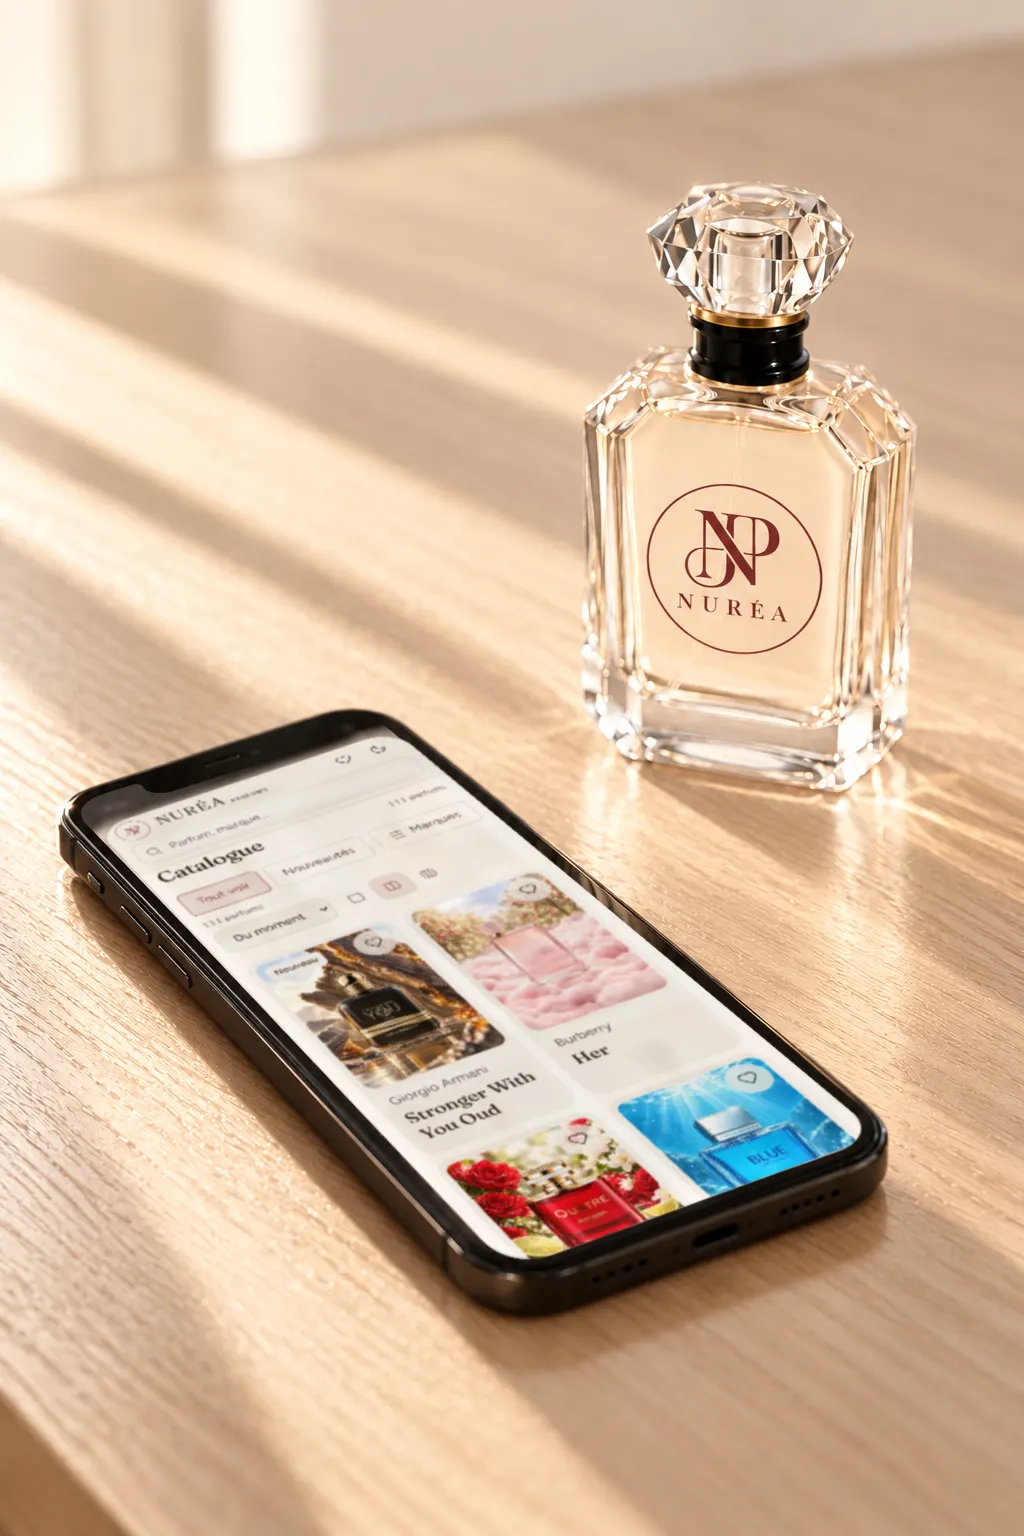
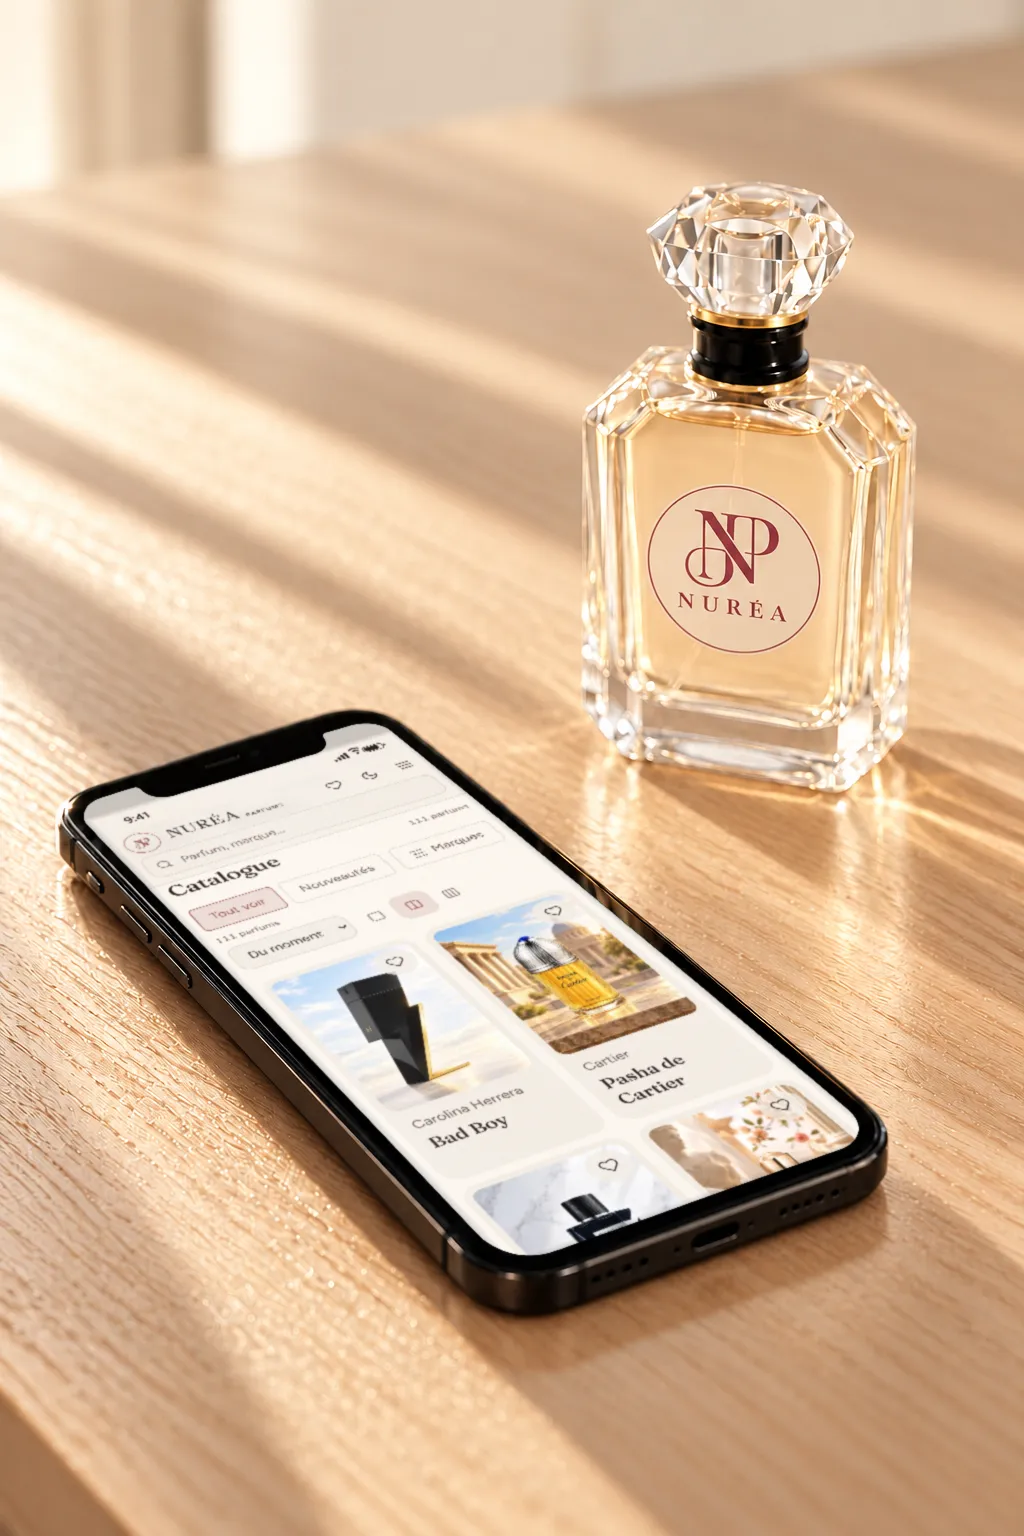
vitrine(T16): téléphones refaits à l'écran vert, vraie appli Snapchat
Le gérant a jugé l'incrustation « pas pro » (écran collé à plat, pâle,
bords approximatifs). Refait selon la méthode d'un studio :

- scènes régénérées à l'identique avec l'écran en vert chroma : le
  détourage donne la forme exacte (coins arrondis, encoche par-dessus) ;
- coins par droites ajustées sur les bords, haut repéré par l'encoche ;
- écran émissif, reflet de vitre dans le sens de la fenêtre, grain du
  cliché, flou de profondeur léger, ombre sous le cadre, liseré vert
  retiré ;
- catalogue : capture à jour (bouton Menu) sous une barre d'état iOS ;
- Snapchat : la capture de l'appli fournie par le gérant, stories nettes
  (sa décision, malgré les prix qu'elles montrent).

diff --git a/src/components/editorial/EditorialPhoto.tsx b/src/components/editorial/EditorialPhoto.tsx
@@ -7,8 +7,8 @@ import { cn } from "@/lib/utils";
  * Les photos éditoriales de la vitrine (`public/branding/editorial/`), chacune en deux lumières, même
  * cadrage au pixel près : la bascule de thème ne change que la lumière. Images générées pour Nuréa
  * (21/10/2026, aucun être vivant, le flacon Nuréa copié sur la photo réelle) ; les écrans des
- * téléphones sont des captures réelles du catalogue et du profil Snapchat, incrustées — les stories,
- * qui portent des prix, y sont floutées. Sources et méthode : `docs/refonte-vitrine/annexes/photos-editoriales.md`.
+ * téléphones (écran vert à la génération) portent des captures réelles incrustées : le catalogue, et
+ * le profil Snapchat tel que l'appli l'affiche, stories nettes (choix du gérant, 21/10, malgré leurs prix). Sources et méthode : `docs/refonte-vitrine/annexes/photos-editoriales.md`.
  */
 export type EditorialPhotoName = "atelier" | "choisir" | "ecrire" | "recevoir";
 

diff --git a/scripts/refonte-vitrine/incruste-ecran.py b/scripts/refonte-vitrine/incruste-ecran.py
@@ -1,43 +1,91 @@
-# Incruste une capture d'écran réelle dans l'écran d'un téléphone d'une photo (perspective, coins arrondis).
-# Usage : python incruste-ecran.py '{"photo":…,"ecran":…,"coins":[[x,y]×4 HG,HD,BD,BG],"sortie":…,"flou_stories":[y0,y1]}'
-# Méthode et réglages utilisés : docs/refonte-vitrine/annexes/photos-editoriales.md (main).
-import sys, json, cv2, numpy as np
-def charge_ecran(path, flou_stories=False, halo=0.0):
-    s = cv2.imread(path)
-    h, w = s.shape[:2]
-    if flou_stories:  # Snapchat : stories (prix, flacons de marques) illisibles
-        y0, y1 = int(h*flou_stories[0]), int(h*flou_stories[1])
-        s[y0:y1] = cv2.GaussianBlur(s[y0:y1], (0, 0), 40)
-    m = np.zeros((h, w), np.uint8)
-    r = int(w*0.11)
-    cv2.rectangle(m, (r, 0), (w-r, h), 255, -1); cv2.rectangle(m, (0, r), (w, h-r), 255, -1)
-    for cx, cy in [(r, r), (w-r, r), (r, h-r), (w-r, h-r)]: cv2.circle(m, (cx, cy), r, 255, -1, cv2.LINE_AA)
-    return s, m
-def incruste(photo, ecran, coins, sortie, flou=1.2, lum=0.92, reflet=0.14, flou_stories=False, halo=0.0):
-    p = cv2.imread(photo); H, W = p.shape[:2]
-    s, m = charge_ecran(ecran, flou_stories)
-    h, w = s.shape[:2]
-    src = np.float32([[0, 0], [w, 0], [w, h], [0, h]])
-    M = cv2.getPerspectiveTransform(src, np.float32(coins))
-    ws = cv2.warpPerspective(s, M, (W, H), flags=cv2.INTER_AREA)
-    wm = cv2.warpPerspective(m, M, (W, H), flags=cv2.INTER_LINEAR).astype(np.float32)/255
-    wm = cv2.GaussianBlur(cv2.erode(wm, np.ones((3, 3))), (0, 0), 0.8)
-    if flou: ws = cv2.GaussianBlur(ws, (0, 0), flou)
-    ws = ws.astype(np.float32)*lum
-    # reflets de la photo d'origine : sa partie claire au-dessus de la moyenne locale
-    pf = p.astype(np.float32)
-    hl = np.clip(pf - cv2.GaussianBlur(pf, (0, 0), 25), 0, 255)
-    comp = ws + hl*halo
-    comp = comp*(1-reflet) + pf*reflet
-    out = pf*(1-wm[..., None]) + comp*wm[..., None]
-    cv2.imwrite(sortie, np.clip(out, 0, 255).astype(np.uint8))
-    # contrôle : contour dessiné
-    c = np.clip(out, 0, 255).astype(np.uint8).copy()
-    cv2.polylines(c, [np.int32(coins)], True, (0, 255, 0), 1)
-    return c
-if __name__ == "__main__":
-    a = json.loads(sys.argv[1])
-    c = incruste(**a)
-    x0 = int(min(q[0] for q in a["coins"]))-40; y0 = int(min(q[1] for q in a["coins"]))-40
-    x1 = int(max(q[0] for q in a["coins"]))+40; y1 = int(max(q[1] for q in a["coins"]))+40
-    cv2.imwrite(a["sortie"].replace(".png", "-controle.png"), c[max(0,y0):y1, max(0,x0):x1])
+# Incruste une capture réelle dans l'écran VERT (chroma #00FF00) d'une photo : masque doux, coins par droites ajustées,
+# haut repéré par l'encoche, lumière, reflet de vitre, grain, ombre sous le cadre. Méthode : docs/refonte-vitrine/annexes/photos-editoriales.md (main).
+# Incrustation d'une capture réelle dans un écran vert (chroma) d'une photo.
+# python incruste2.py photo_verte.png ecran.png sortie.png [lumiere sombre|clair] [flou_y0 flou_y1]
+import sys, cv2, numpy as np
+photo, ecran, sortie = sys.argv[1:4]
+lumiere = sys.argv[4] if len(sys.argv) > 4 else "sombre"
+flou = (float(sys.argv[5]), float(sys.argv[6])) if len(sys.argv) > 6 else None
+P = cv2.imread(photo).astype(np.float32); H, W = P.shape[:2]
+B, G, R = cv2.split(P)
+g = G - np.maximum(R, B)                      # « verdeur »
+alpha = np.clip((g - 40) / (140 - 40), 0, 1)  # masque doux
+dur = (alpha > 0.5).astype(np.uint8)
+n, lab, st, _ = cv2.connectedComponentsWithStats(dur)
+k = 1 + np.argmax(st[1:, cv2.CC_STAT_AREA]); dur = (lab == k).astype(np.uint8)
+cs, _ = cv2.findContours(dur, cv2.RETR_EXTERNAL, cv2.CHAIN_APPROX_NONE); c = max(cs, key=cv2.contourArea)
+hull = cv2.convexHull(c)
+for eps in np.linspace(0.01, 0.1, 50):
+    a = cv2.approxPolyDP(hull, eps * cv2.arcLength(hull, True), True)
+    if len(a) == 4: break
+q = a.reshape(-1, 2).astype(np.float64); pts = hull.reshape(-1, 2).astype(np.float64)
+# droites ajustées sur la partie centrale de chaque bord (hors coins arrondis)
+def dseg(Pp, A, Bb):
+    AB = Bb - A; t = np.clip(((Pp - A) @ AB) / (AB @ AB), 0, 1); return np.linalg.norm(Pp - (A + t[:, None] * AB), axis=1)
+ptsC = c.reshape(-1, 2).astype(np.float64)
+D = np.stack([dseg(ptsC, q[i], q[(i + 1) % 4]) for i in range(4)], 1); kk = D.argmin(1)
+lignes = []
+for i in range(4):
+    A, Bb = q[i], q[(i + 1) % 4]; L = np.linalg.norm(Bb - A); u = (Bb - A) / L
+    S = ptsC[(kk == i) & (D.min(1) < 20)]; t = (S - A) @ u; S = S[(t > 0.2 * L) & (t < 0.8 * L)]
+    lignes.append(cv2.fitLine(S.astype(np.float32), cv2.DIST_HUBER, 0, 0.01, 0.01).ravel())
+def inter(l1, l2):
+    vx1, vy1, x1, y1 = l1; vx2, vy2, x2, y2 = l2
+    t = np.linalg.solve(np.array([[vx1, -vx2], [vy1, -vy2]]), [x2 - x1, y2 - y1]); return np.array([x1 + vx1 * t[0], y1 + vy1 * t[0]])
+coins = np.array([inter(lignes[i - 1], lignes[i]) for i in range(4)])
+# ordre horaire (y vers le bas : atan2 croissant = horaire à l'écran)
+cen = coins.mean(0); coins = coins[np.argsort(np.arctan2(coins[:, 1] - cen[1], coins[:, 0] - cen[0]))]
+# le haut = bord court le plus proche de l'encoche (trou noir dans la coque convexe du vert)
+plein = np.zeros_like(dur); cv2.fillPoly(plein, [np.int32(coins)], 1)
+trou = ((plein == 1) & (alpha < 0.2)).astype(np.uint8)
+trou = cv2.morphologyEx(trou, cv2.MORPH_OPEN, np.ones((3, 3), np.uint8))
+court = min(np.linalg.norm(coins[(i + 1) % 4] - coins[i]) for i in range(4))
+for co in coins: cv2.circle(trou, tuple(np.int32(co)), int(0.15 * court), 0, -1)  # coins arrondis ≠ encoche
+n2, lab2, st2, cen2 = cv2.connectedComponentsWithStats(trou)
+if n2 > 1:
+    j = 1 + np.argmax(st2[1:, cv2.CC_STAT_AREA]); encoche = cen2[j]
+else:
+    encoche = None
+cotes = [(i, (i + 1) % 4) for i in range(4)]
+longs = [np.linalg.norm(coins[b] - coins[a]) for a, b in cotes]
+courts = sorted(range(4), key=lambda i: longs[i])[:2]
+if encoche is not None:
+    haut = min(courts, key=lambda i: np.linalg.norm((coins[cotes[i][0]] + coins[cotes[i][1]]) / 2 - encoche))
+else:
+    haut = min(courts, key=lambda i: ((coins[cotes[i][0]] + coins[cotes[i][1]]) / 2)[1])
+coins = np.roll(coins, -haut, axis=0)  # HG, HD, BD, BG
+print("coins", np.round(coins, 1).tolist(), "encoche", None if encoche is None else np.round(encoche).tolist())
+# écran : capture, flou éventuel (prix), perspective
+E = cv2.imread(ecran).astype(np.float32); h, w = E.shape[:2]
+if flou:
+    # flou en fondu : plein entre y0 et y1, rampe de 3 % de part et d'autre (pas de bord franc)
+    Eb = cv2.GaussianBlur(E, (0, 0), 30); yv = np.arange(h, dtype=np.float32)[:, None, None] / h; r = 0.03
+    m = np.clip(np.minimum((yv - (flou[0] - r)) / r, ((flou[1] + r) - yv) / r), 0, 1); E = E * (1 - m) + Eb * m
+# agrandi de 1 % autour du centre : la capture couvre aussi les coins arrondis du masque
+cc = coins.mean(0); dst = cc + (coins - cc) * 1.01
+M = cv2.getPerspectiveTransform(np.float32([[0, 0], [w, 0], [w, h], [0, h]]), np.float32(dst))
+Ew = cv2.warpPerspective(E, M, (W, H), flags=cv2.INTER_AREA, borderMode=cv2.BORDER_REPLICATE)
+# coordonnées locales de l'écran (u gauche→droite, v haut→bas) pour reflet et bord
+Minv = np.linalg.inv(M); yy, xx = np.mgrid[0:H, 0:W].astype(np.float32)
+den = Minv[2, 0] * xx + Minv[2, 1] * yy + Minv[2, 2]
+U = (Minv[0, 0] * xx + Minv[0, 1] * yy + Minv[0, 2]) / den / w; V = (Minv[1, 0] * xx + Minv[1, 1] * yy + Minv[1, 2]) / den / h
+# lumière : écran émissif, un peu moins vif dans la pénombre
+Ew *= 0.9 if lumiere == "sombre" else 1.0
+# flou de profondeur léger + grain du cliché
+Ew = cv2.GaussianBlur(Ew, (0, 0), 0.7)
+rng = np.random.default_rng(7); Ew += rng.normal(0, 2.2, Ew.shape).astype(np.float32)
+# reflet de vitre : bande diagonale douce venue de la fenêtre (haut-gauche) + voile ambiant
+diag = (U * 0.8 + V * 0.6)
+bande = np.exp(-((diag - 0.45) / 0.18) ** 2)
+reflet = (0.07 if lumiere == "sombre" else 0.10) * bande + (0.02 if lumiere == "sombre" else 0.04)
+Ew = Ew * (1 - reflet[..., None]) + 255 * reflet[..., None]
+# ombre intérieure : l'écran passe sous le cadre
+bord = np.minimum.reduce([U, 1 - U, V * h / w, (1 - V) * h / w])
+Ew *= (0.82 + 0.18 * np.clip(bord / 0.025, 0, 1))[..., None]
+# retrait du liseré vert de la photo, puis mélange par le masque doux
+P2 = P.copy(); P2[..., 1] = np.minimum(P[..., 1], np.maximum(P[..., 0], P[..., 2]) * 1.05)
+A = cv2.GaussianBlur(alpha, (0, 0), 0.6)[..., None]
+out = P2 * (1 - A) + Ew * A
+cv2.imwrite(sortie, np.clip(out, 0, 255).astype(np.uint8))
+x0, y0 = np.int32(coins.min(0)) - 30; x1, y1 = np.int32(coins.max(0)) + 30
+cv2.imwrite(sortie.replace(".png", "-zoom.png"), np.clip(out, 0, 255).astype(np.uint8)[max(0, y0):y1, max(0, x0):x1])

diff --git a/scripts/refonte-vitrine/barre-etat.py b/scripts/refonte-vitrine/barre-etat.py
@@ -1,0 +1,22 @@
+# Ajoute une barre d'état iOS (47 pt) au-dessus d'une capture 1170 × 2532 (3x) ; la capture descend d'autant.
+import sys
+from PIL import Image, ImageDraw, ImageFont
+src, out, theme = sys.argv[1:4]
+im = Image.open(src).convert("RGB"); W, H = im.size; s = 3; bh = 47 * s
+fond = im.getpixel((W // 2, 4)); encre = (245, 237, 227) if theme == "sombre" else (37, 22, 22)
+o = Image.new("RGB", (W, H), fond); o.paste(im.crop((0, 0, W, H - bh)), (0, bh))
+d = ImageDraw.Draw(o)
+f = ImageFont.truetype("C:/Windows/Fonts/seguisb.ttf", 17 * s)
+d.text((54 * s, 25 * s), "9:41", font=f, fill=encre, anchor="mm")
+x = W - 28 * s  # batterie
+d.rounded_rectangle((x - 25 * s, 19 * s, x, 31 * s), radius=4 * s, outline=encre, width=int(1.2 * s))
+d.rounded_rectangle((x - 23 * s, 21 * s, x - 6 * s, 29 * s), radius=2 * s, fill=encre)
+d.rounded_rectangle((x + 1 * s, 23 * s, x + 3 * s, 27 * s), radius=1 * s, fill=encre)
+x -= 33 * s  # wifi : trois arcs
+for r in (10, 6.5, 3):
+    d.pieslice((x - r * s, 30 * s - r * s * 1.6, x + r * s, 30 * s + r * s * 0.4), 225, 315, fill=encre)
+    d.pieslice((x - (r - 1.6) * s, 30 * s - (r - 1.6) * s * 1.6, x + (r - 1.6) * s, 30 * s + (r - 1.6) * s * 0.4), 225, 315, fill=fond) if r > 3 else None
+x -= 30 * s  # réseau : quatre barres
+for i in range(4):
+    hgt = (4 + i * 2.6) * s; d.rounded_rectangle((x + i * 5 * s, 31 * s - hgt, x + i * 5 * s + 3 * s, 31 * s), radius=s, fill=encre)
+o.save(out)
